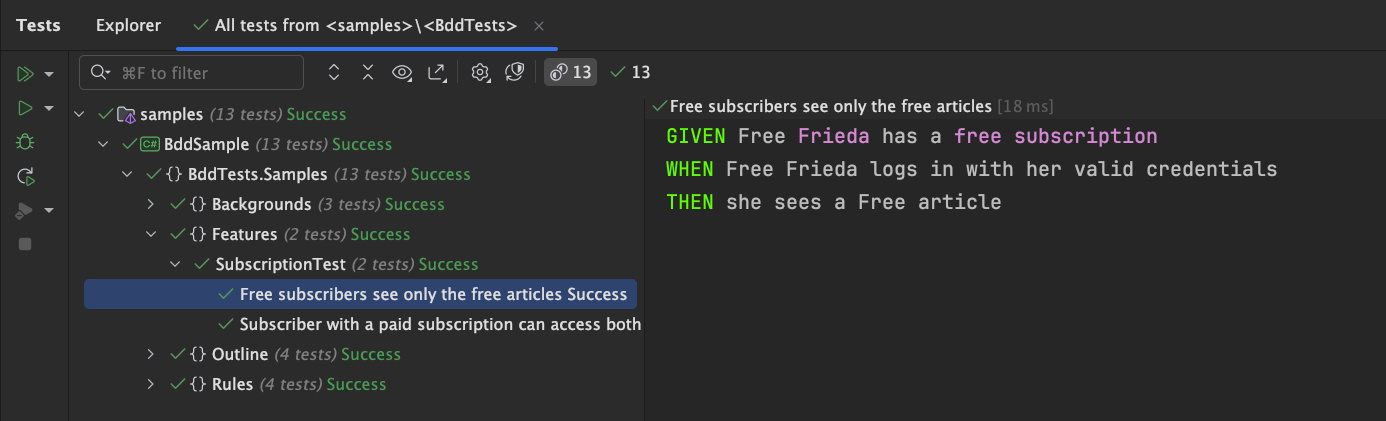
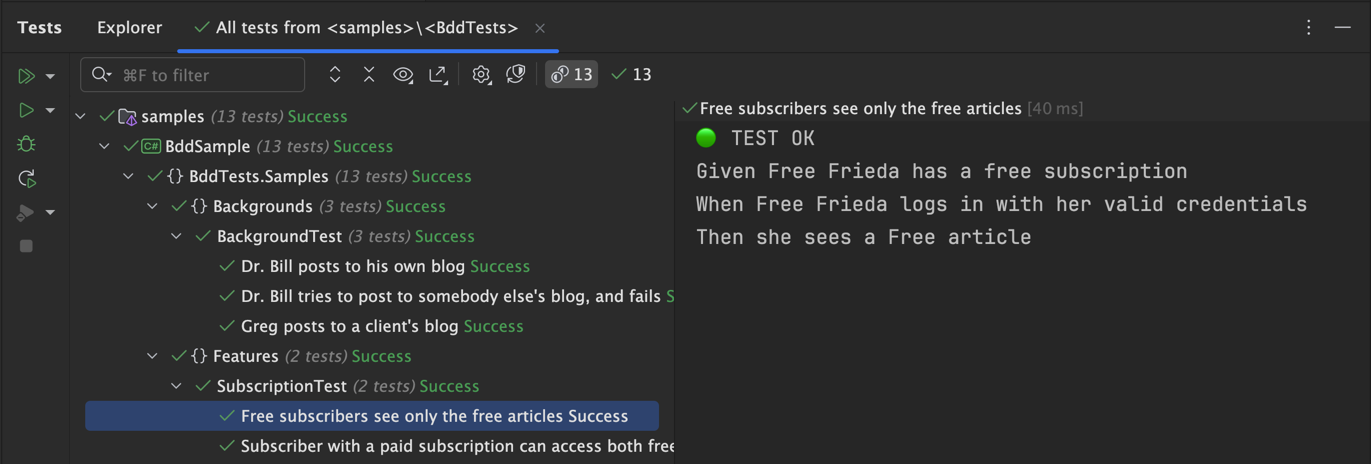
Add GherXunit base code and annotations for feature testing

diff --git a/src/base/GherXunitBaseCode/StepSourceCode.cs b/src/base/GherXunitBaseCode/StepSourceCode.cs
@@ -1,0 +1,138 @@
+#nullable enable
+using System.Reflection;
+
+namespace GherXunit.Annotations;
+
+internal static partial class GherXunitSteps
+{
+    /// <summary>
+    /// Execute the steps in the scenario asynchronously.
+    /// </summary>
+    /// <param name="feature">Feature</param>
+    /// <param name="steps">Steps executed</param>
+    public static async Task ExecuteAscync(this IGherXunit feature, string steps)
+        => await ExecuteAscync(feature, null, steps, []);
+
+    /// <summary>
+    /// Execute the steps in the scenario asynchronously.
+    /// </summary>
+    /// <param name="feature">Feature</param>
+    /// <param name="refer">The method to be executed</param>
+    /// <param name="steps">Steps executed</param>
+    public static async Task ExecuteAscync(this IGherXunit feature, Delegate refer, string steps)
+        => await ExecuteAscync(feature, refer.Method, steps, []);
+
+    /// <summary>
+    /// Execute the steps in the scenario asynchronously.
+    /// </summary>
+    /// <param name="feature">Feature</param>
+    /// <param name="refer">The method to be executed</param>
+    /// <param name="param">Parameters</param>
+    /// <param name="steps">Steps executed</param>
+    public static async Task ExecuteAscync(this IGherXunit feature, Delegate refer, object[] param, string steps)
+        => await ExecuteAscync(feature, refer.Method, steps, param);
+}
+
+/// <summary>
+/// # Sync Methods for Gherkin Steps
+/// See the <see href="https://cucumber.io/docs/gherkin/reference#steps">cucumber.io</see> documentation
+/// or <see href="https://dannorth.net/introducing-bdd/">introducing-bdd</see> page for more information.
+/// </summary>
+internal static partial class GherXunitSteps
+{
+    /// <summary>
+    /// Execute the steps in the scenario synchronously.
+    /// </summary>
+    /// <param name="feature">Feature</param>
+    /// <param name="steps">Steps executed</param>
+    public static void Execute(this IGherXunit feature, string steps)
+        => Execute(feature, null, steps, []);
+
+    /// <summary>
+    /// Execute the steps in the scenario synchronously.
+    /// </summary>
+    /// <param name="feature">Feature</param>
+    /// <param name="refer">The method to be executed</param>
+    /// <param name="steps">Steps executed</param>
+    public static void Execute(this IGherXunit feature, Delegate refer, string steps)
+        => Execute(feature, refer.Method, steps, []);
+
+    /// <summary>
+    /// Execute the steps in the scenario synchronously.
+    /// </summary>
+    /// <param name="feature">Feature</param>
+    /// <param name="refer">The method to be executed</param>
+    /// <param name="param">Parameters</param>
+    /// <param name="steps">Steps executed</param>    
+    public static void Execute(this IGherXunit feature, Delegate refer, object[] param, string steps)
+        => Execute(feature, refer.Method, steps, param);
+}
+
+/// <summary>
+/// Base Methods for Gherkin Steps
+/// See the <see href="https://cucumber.io/docs/gherkin/reference#steps">cucumber.io</see> documentation
+/// or <see href="https://dannorth.net/introducing-bdd/">introducing-bdd</see> page for more information.
+/// </summary>
+internal static partial class GherXunitSteps
+{
+    /// <summary>
+    /// Just output the steps in the scenario.
+    /// </summary>
+    /// <param name="feature">Feature</param>
+    /// <param name="steps">Steps executed</param>
+    public static void NonExecutable(this IGherXunit feature, string? steps = null)
+    {
+        if (steps is not null) feature.Write(steps);
+    }
+
+    /// <summary>
+    /// Just output the steps in the scenario.
+    /// </summary>
+    /// <param name="feature">Feature</param>
+    /// <param name="steps">Steps executed</param>    
+    public static Task NonExecutableAsync(this IGherXunit feature, string? steps = null)
+    {
+        if (steps is not null) feature.Write(steps);
+        return Task.CompletedTask;
+    }
+
+    private static void Execute(this IGherXunit feature, MethodInfo? method, string steps, params object?[] param)
+    {
+        try
+        {
+            method?.Invoke(feature, param);
+            feature.Write(steps);
+        }
+        catch (Exception)
+        {
+            feature.Write(steps, true);
+            throw;
+        }
+    }
+
+    private static async Task ExecuteAscync(this IGherXunit feature, MethodInfo? method, string steps,
+        params object?[] param)
+    {
+        try
+        {
+            if (method is not null)
+            {
+                var task = (Task)method.Invoke(feature, param)!;
+                await task;
+            }
+
+            feature.Write(steps);
+        }
+        catch (Exception)
+        {
+            feature.Write(steps, true);
+            throw;
+        }
+    }
+
+    private static void Write(this IGherXunit feature, string steps, bool isException = false)
+    {
+        feature.Output.WriteLine(isException ? "🔴 TEST FAIL" : "🟢 TEST OK");
+        feature.Output.WriteLine(steps);
+    }
+}

diff --git a/src/lib/GherXunit/Sources/StepSourceCode.cs b/src/lib/GherXunit/Sources/StepSourceCode.cs
@@ -10,10 +10,9 @@ internal struct StepSourceCode
         """
         #nullable enable
         using System.Reflection;
-        using System.Text;
-        
+
         namespace GherXunit.Annotations;
-        
+
         internal static partial class GherXunitSteps
         {
             /// <summary>
@@ -43,7 +42,7 @@ internal struct StepSourceCode
             public static async Task ExecuteAscync(this IGherXunit feature, Delegate refer, object[] param, string steps)
                 => await ExecuteAscync(feature, refer.Method, steps, param);
         }
-        
+
         /// <summary>
         /// # Sync Methods for Gherkin Steps
         /// See the <see href="https://cucumber.io/docs/gherkin/reference#steps">cucumber.io</see> documentation
@@ -78,7 +77,7 @@ internal struct StepSourceCode
             public static void Execute(this IGherXunit feature, Delegate refer, object[] param, string steps)
                 => Execute(feature, refer.Method, steps, param);
         }
-        
+
         /// <summary>
         /// Base Methods for Gherkin Steps
         /// See the <see href="https://cucumber.io/docs/gherkin/reference#steps">cucumber.io</see> documentation
@@ -93,7 +92,7 @@ internal struct StepSourceCode
             /// <param name="steps">Steps executed</param>
             public static void NonExecutable(this IGherXunit feature, string? steps = null)
             {
-                if (steps is not null) feature.Output.WriteLine(steps.Highlights());
+                if (steps is not null) feature.Write(steps);
             }
         
             /// <summary>
@@ -103,20 +102,20 @@ internal struct StepSourceCode
             /// <param name="steps">Steps executed</param>    
             public static Task NonExecutableAsync(this IGherXunit feature, string? steps = null)
             {
-                if (steps is not null) feature.Output.WriteLine(steps.Highlights());
+                if (steps is not null) feature.Write(steps);
                 return Task.CompletedTask;
             }
-            
+        
             private static void Execute(this IGherXunit feature, MethodInfo? method, string steps, params object?[] param)
             {
                 try
                 {
                     method?.Invoke(feature, param);
-                    feature.Output.WriteLine(steps.Highlights());
+                    feature.Write(steps);
                 }
                 catch (Exception)
                 {
-                    feature.Output.WriteLine(steps.Highlights(true));
+                    feature.Write(steps, true);
                     throw;
                 }
             }
@@ -132,37 +131,19 @@ internal struct StepSourceCode
                         await task;
                     }
         
-                    feature.Output.WriteLine(steps.Highlights());
+                    feature.Write(steps);
                 }
                 catch (Exception)
                 {
-                    feature.Output.WriteLine(steps.Highlights(true));
+                    feature.Write(steps, true);
                     throw;
                 }
             }
         
-            private static string Highlights(this string steps, bool isException = false)
+            private static void Write(this IGherXunit feature, string steps, bool isException = false)
             {
-                var colorB = isException ? "\u001b[31m" : "\u001b[38;5;82m";
-                const string colorE = "\u001b[0m";
-                
-                var replacements = new Dictionary<string, string>
-                {
-                    { "Given", $"{colorB}GIVEN{colorE}" },
-                    { "When", $"{colorB}WHEN{colorE}" },
-                    { "Then", $"{colorB}THEN{colorE}" },
-                    { "And", $"{colorB}AND{colorE}" },
-                    { "<<", "\u001b[35m" },
-                    { ">>", "\u001b[0m" }
-                };
-        
-                var sb = new StringBuilder(steps);
-                foreach (var replacement in replacements)
-                {
-                    sb.Replace(replacement.Key, replacement.Value);
-                }
-        
-                return sb.ToString();
+                feature.Output.WriteLine(isException ? "🔴 TEST FAIL" : "🟢 TEST OK");
+                feature.Output.WriteLine(steps);
             }
         }
         """;

diff --git a/src/base/GherXunitBaseCode/AttributeSourceCode.cs b/src/base/GherXunitBaseCode/AttributeSourceCode.cs
@@ -1,0 +1,32 @@
+#nullable enable
+global using Examples = Xunit.InlineDataAttribute;
+using System.ComponentModel;
+using Xunit;
+
+namespace GherXunit.Annotations;
+
+internal class FeatureAttribute(string description) : DescriptionAttribute($"Feature: {description}");
+
+internal class RuleAttribute(string description) : DescriptionAttribute($"Rule: {description}");
+
+internal class BackgroundAttribute() : DescriptionAttribute("Background");
+
+internal sealed class ScenarioAttribute : FactAttribute
+{
+    public ScenarioAttribute(string displayName) => DisplayName = displayName;
+}
+
+internal sealed class ExampleAttribute : FactAttribute
+{
+    public ExampleAttribute(string displayName) => DisplayName = displayName;
+}
+
+internal sealed class ScenarioOutlineAttribute : TheoryAttribute
+{
+    public ScenarioOutlineAttribute(string displayName) => DisplayName = displayName;
+}
+
+internal sealed class ScenariosAttribute : TheoryAttribute
+{
+    public ScenariosAttribute(string displayName) => DisplayName = displayName;
+}

diff --git a/src/sample/BddSample/Samples/Outline/ScenarioOutlineTest.cs b/src/sample/BddSample/Samples/Outline/ScenarioOutlineTest.cs
@@ -12,9 +12,9 @@ public partial class ScenarioOutlineTest
         refer: Step01, 
         param: [start, eat, left],
         steps: $"""
-                Given there are <<{start}>> cucumbers
-                When I eat <<{eat}>> cucumbers
-                Then I should have <<{left}>> cucumbers
+                Given there are {start} cucumbers
+                When I eat {eat} cucumbers
+                Then I should have {left} cucumbers
                 """);
     
     [ScenarioOutline("eating")]
@@ -24,8 +24,8 @@ public partial class ScenarioOutlineTest
         refer: Step01, 
         param: [start, eat, left],
         steps: $"""
-                Given there are <<{start}>> cucumbers
-                When I eat <<{eat}>> cucumbers
-                Then I should have <<{left}>> cucumbers
+                Given there are {start} cucumbers
+                When I eat {eat} cucumbers
+                Then I should have {left} cucumbers
                 """);    
 }

diff --git a/src/sample/BddSample/Samples/Features/SubscriptionTest.cs b/src/sample/BddSample/Samples/Features/SubscriptionTest.cs
@@ -9,7 +9,7 @@ public partial class SubscriptionTest
     async Task WhenFriedaLogs() => await this.ExecuteAscync(
         refer: WhenFriedaLogsSteps,
         steps: """
-               Given Free <<Frieda>> has a <<free subscription>>
+               Given Free Frieda has a free subscription
                When Free Frieda logs in with her valid credentials
                Then she sees a Free article
                """);
@@ -18,7 +18,7 @@ public partial class SubscriptionTest
     void WhenPattyLogs() => this.Execute(
         refer: WhenPattyLogsSteps,
         steps: """
-               Given Paid <<Patty>> has a basic-level <<paid subscription>>
+               Given Paid Patty has a basic-level paid subscription
                When Paid Patty logs in with her valid credentials
                Then she sees a Free article and a Paid article
                """);

diff --git a/src/base/GherXunitBaseCode/InterfaceSourceCode.cs b/src/base/GherXunitBaseCode/InterfaceSourceCode.cs
@@ -1,0 +1,14 @@
+#nullable enable
+using Xunit.Abstractions;
+
+namespace GherXunit.Annotations;
+
+internal interface IGherXunitBackground<T> : IGherXunit, IClassFixture<T> where T : class
+{
+    void Setup();
+}
+
+internal interface IGherXunit
+{
+    public ITestOutputHelper Output { get; }
+}
